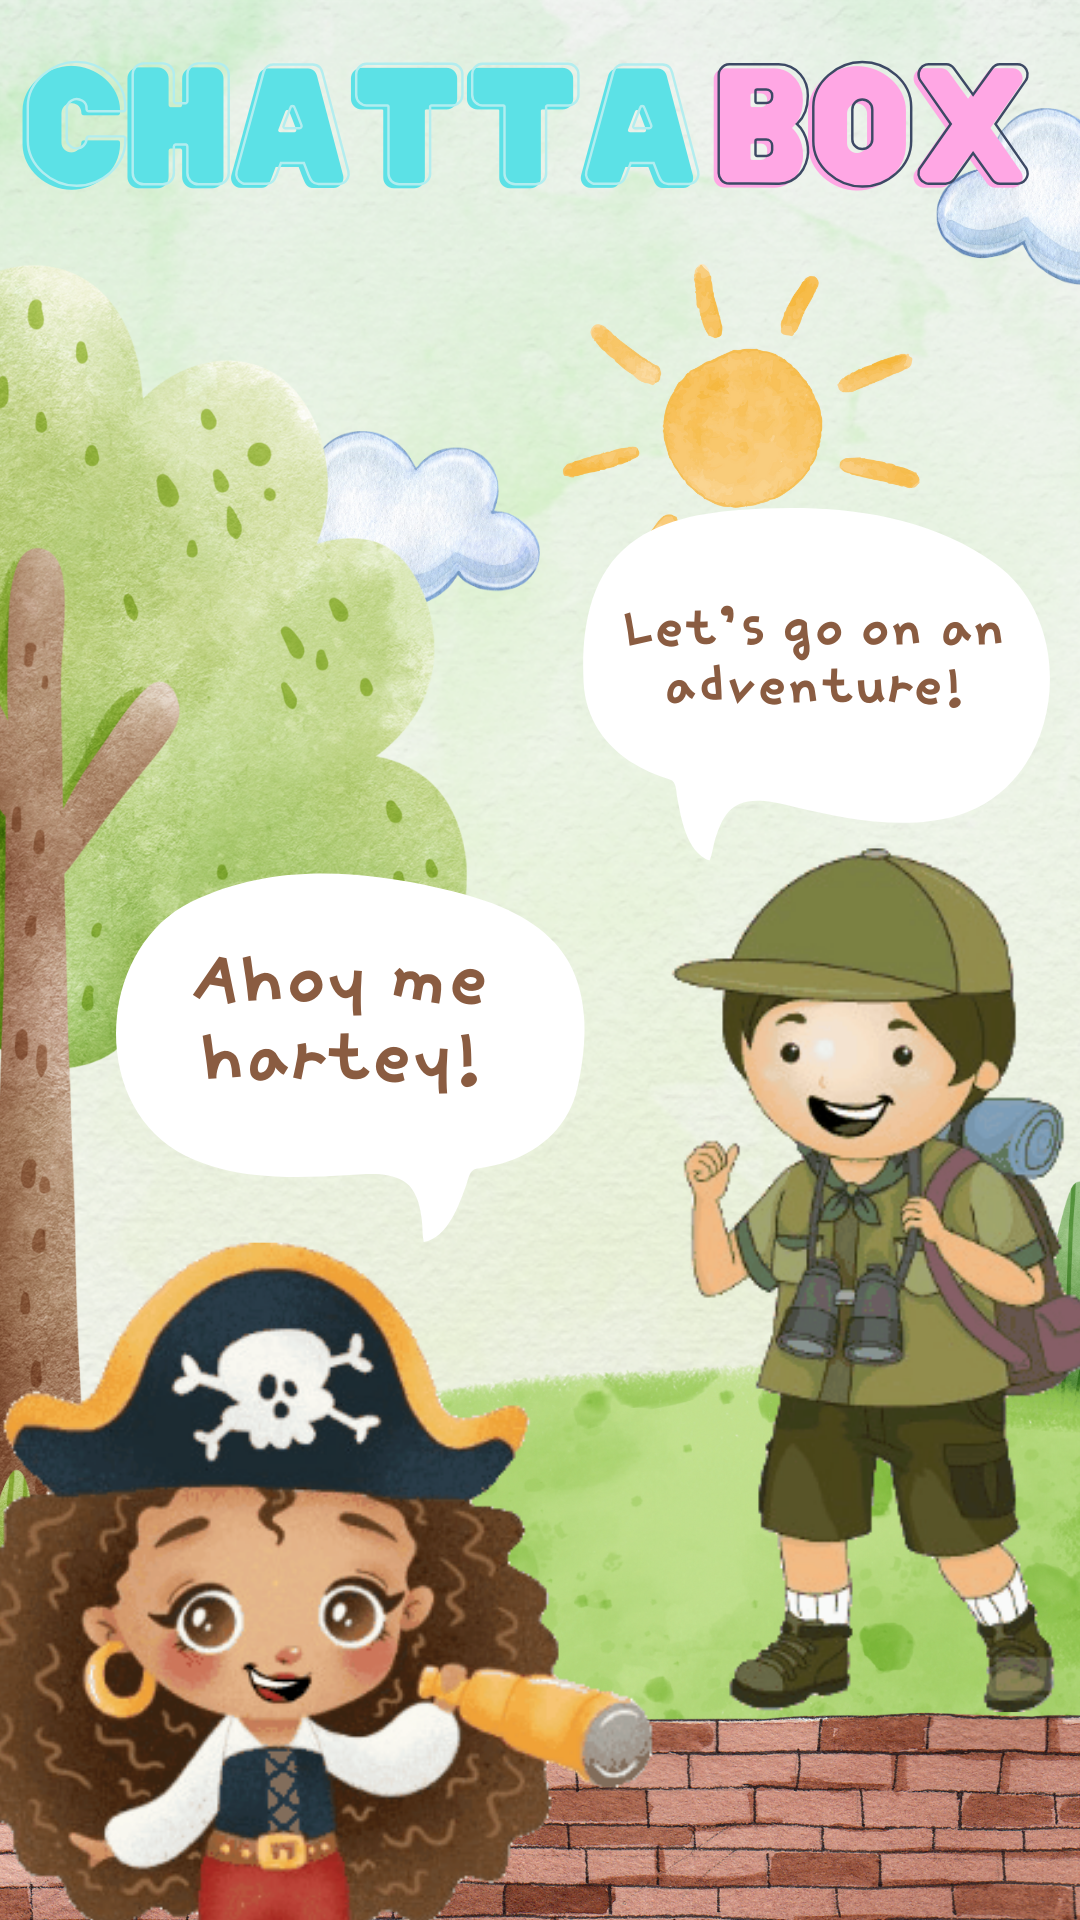
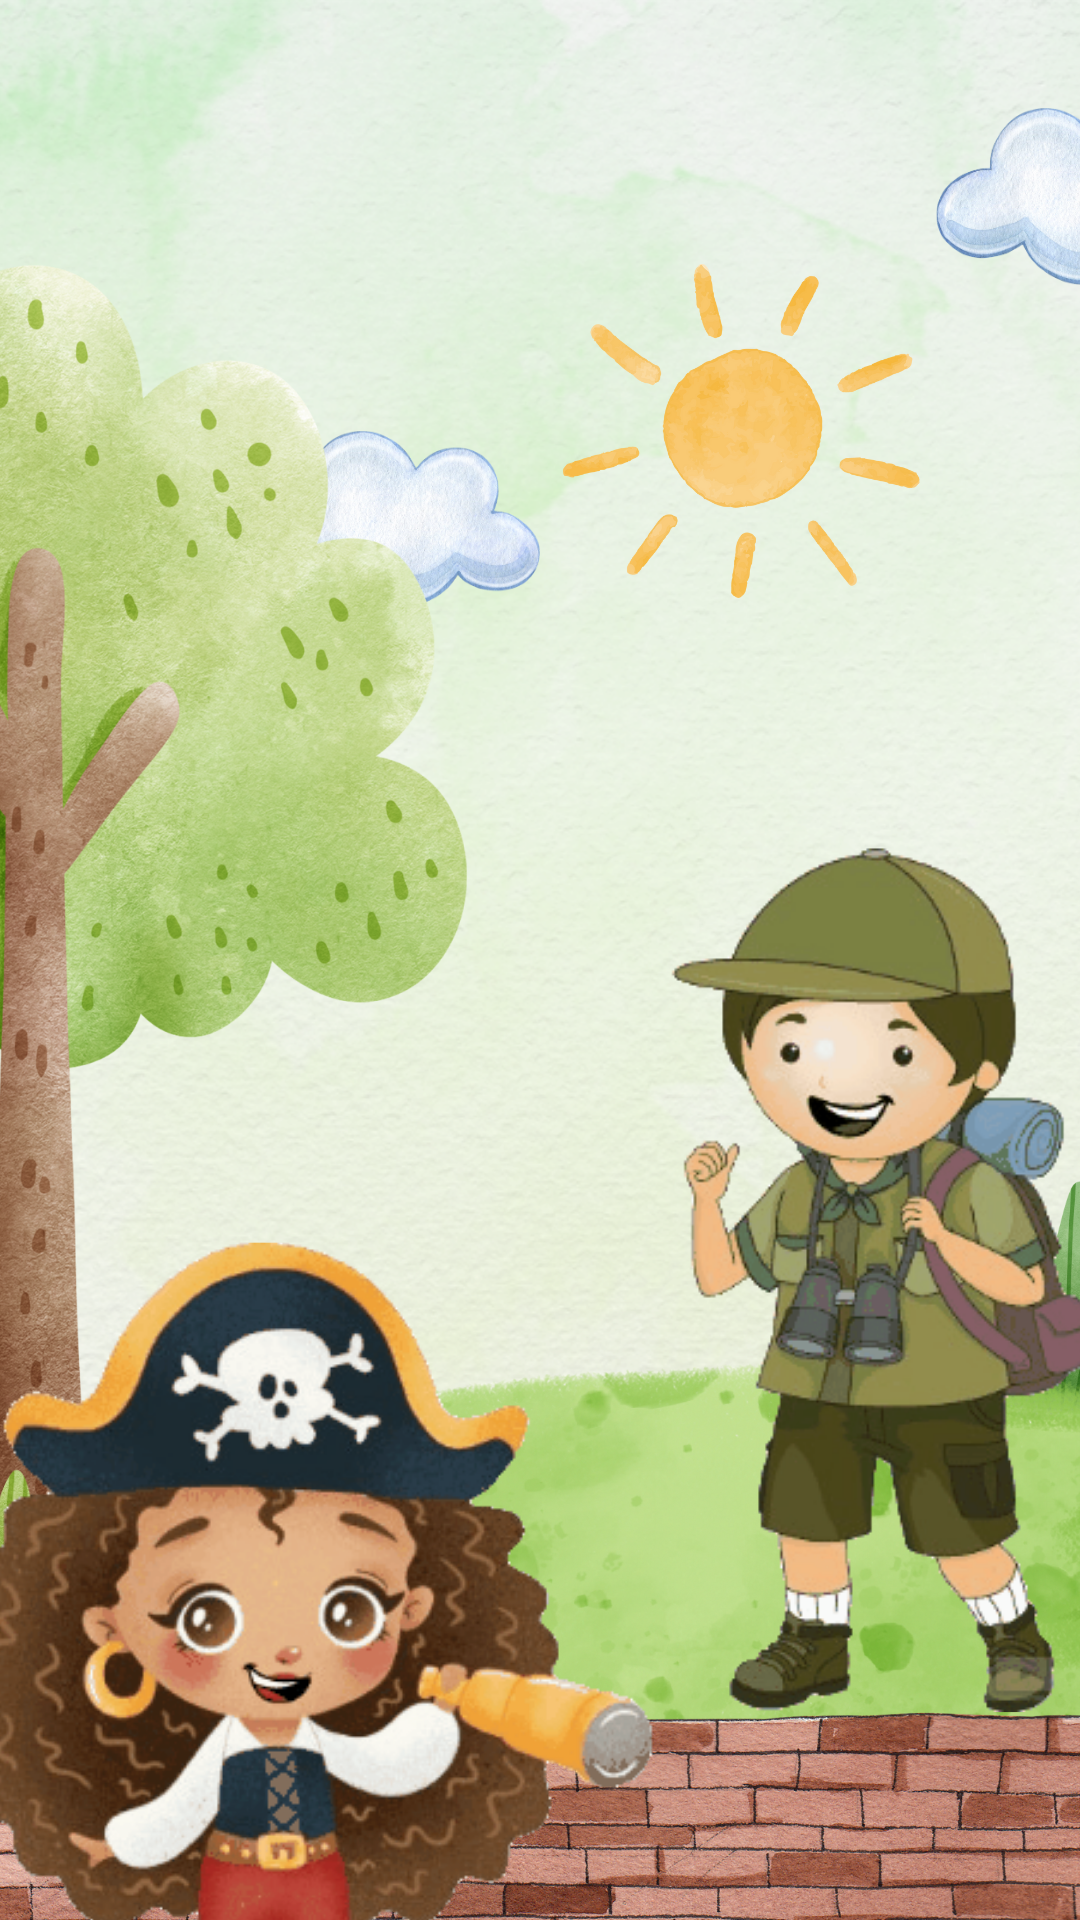
made screen1 responsive

Changed region(s): [[0.0917, 0.4375, 0.55, 0.6562], [0.5194, 0.25, 0.9778, 0.4688], [0.0, 0.0312, 0.9472, 0.125]]

diff --git a/templates/screen1.html b/templates/screen1.html
@@ -23,11 +23,21 @@
             left: 50%;
             transform: translate(-50%, -50%);
             cursor: pointer;
+            max-width: 50%;
+        }
+
+        .banner-img {
+            height: auto;
+            max-width: 90%;
+            margin: 0 auto;
         }
     </style>
 </head>
 
 <body>
+    <div class="col-12 mb-5 text-center">
+        <img src="/static/chattabox.png" class="banner-img" alt="Chattabox">
+    </div>
     <img class="start-button" src="/static/start_button.png" alt="Start"
         onclick="window.location.href='/select-character'">
 </body>
